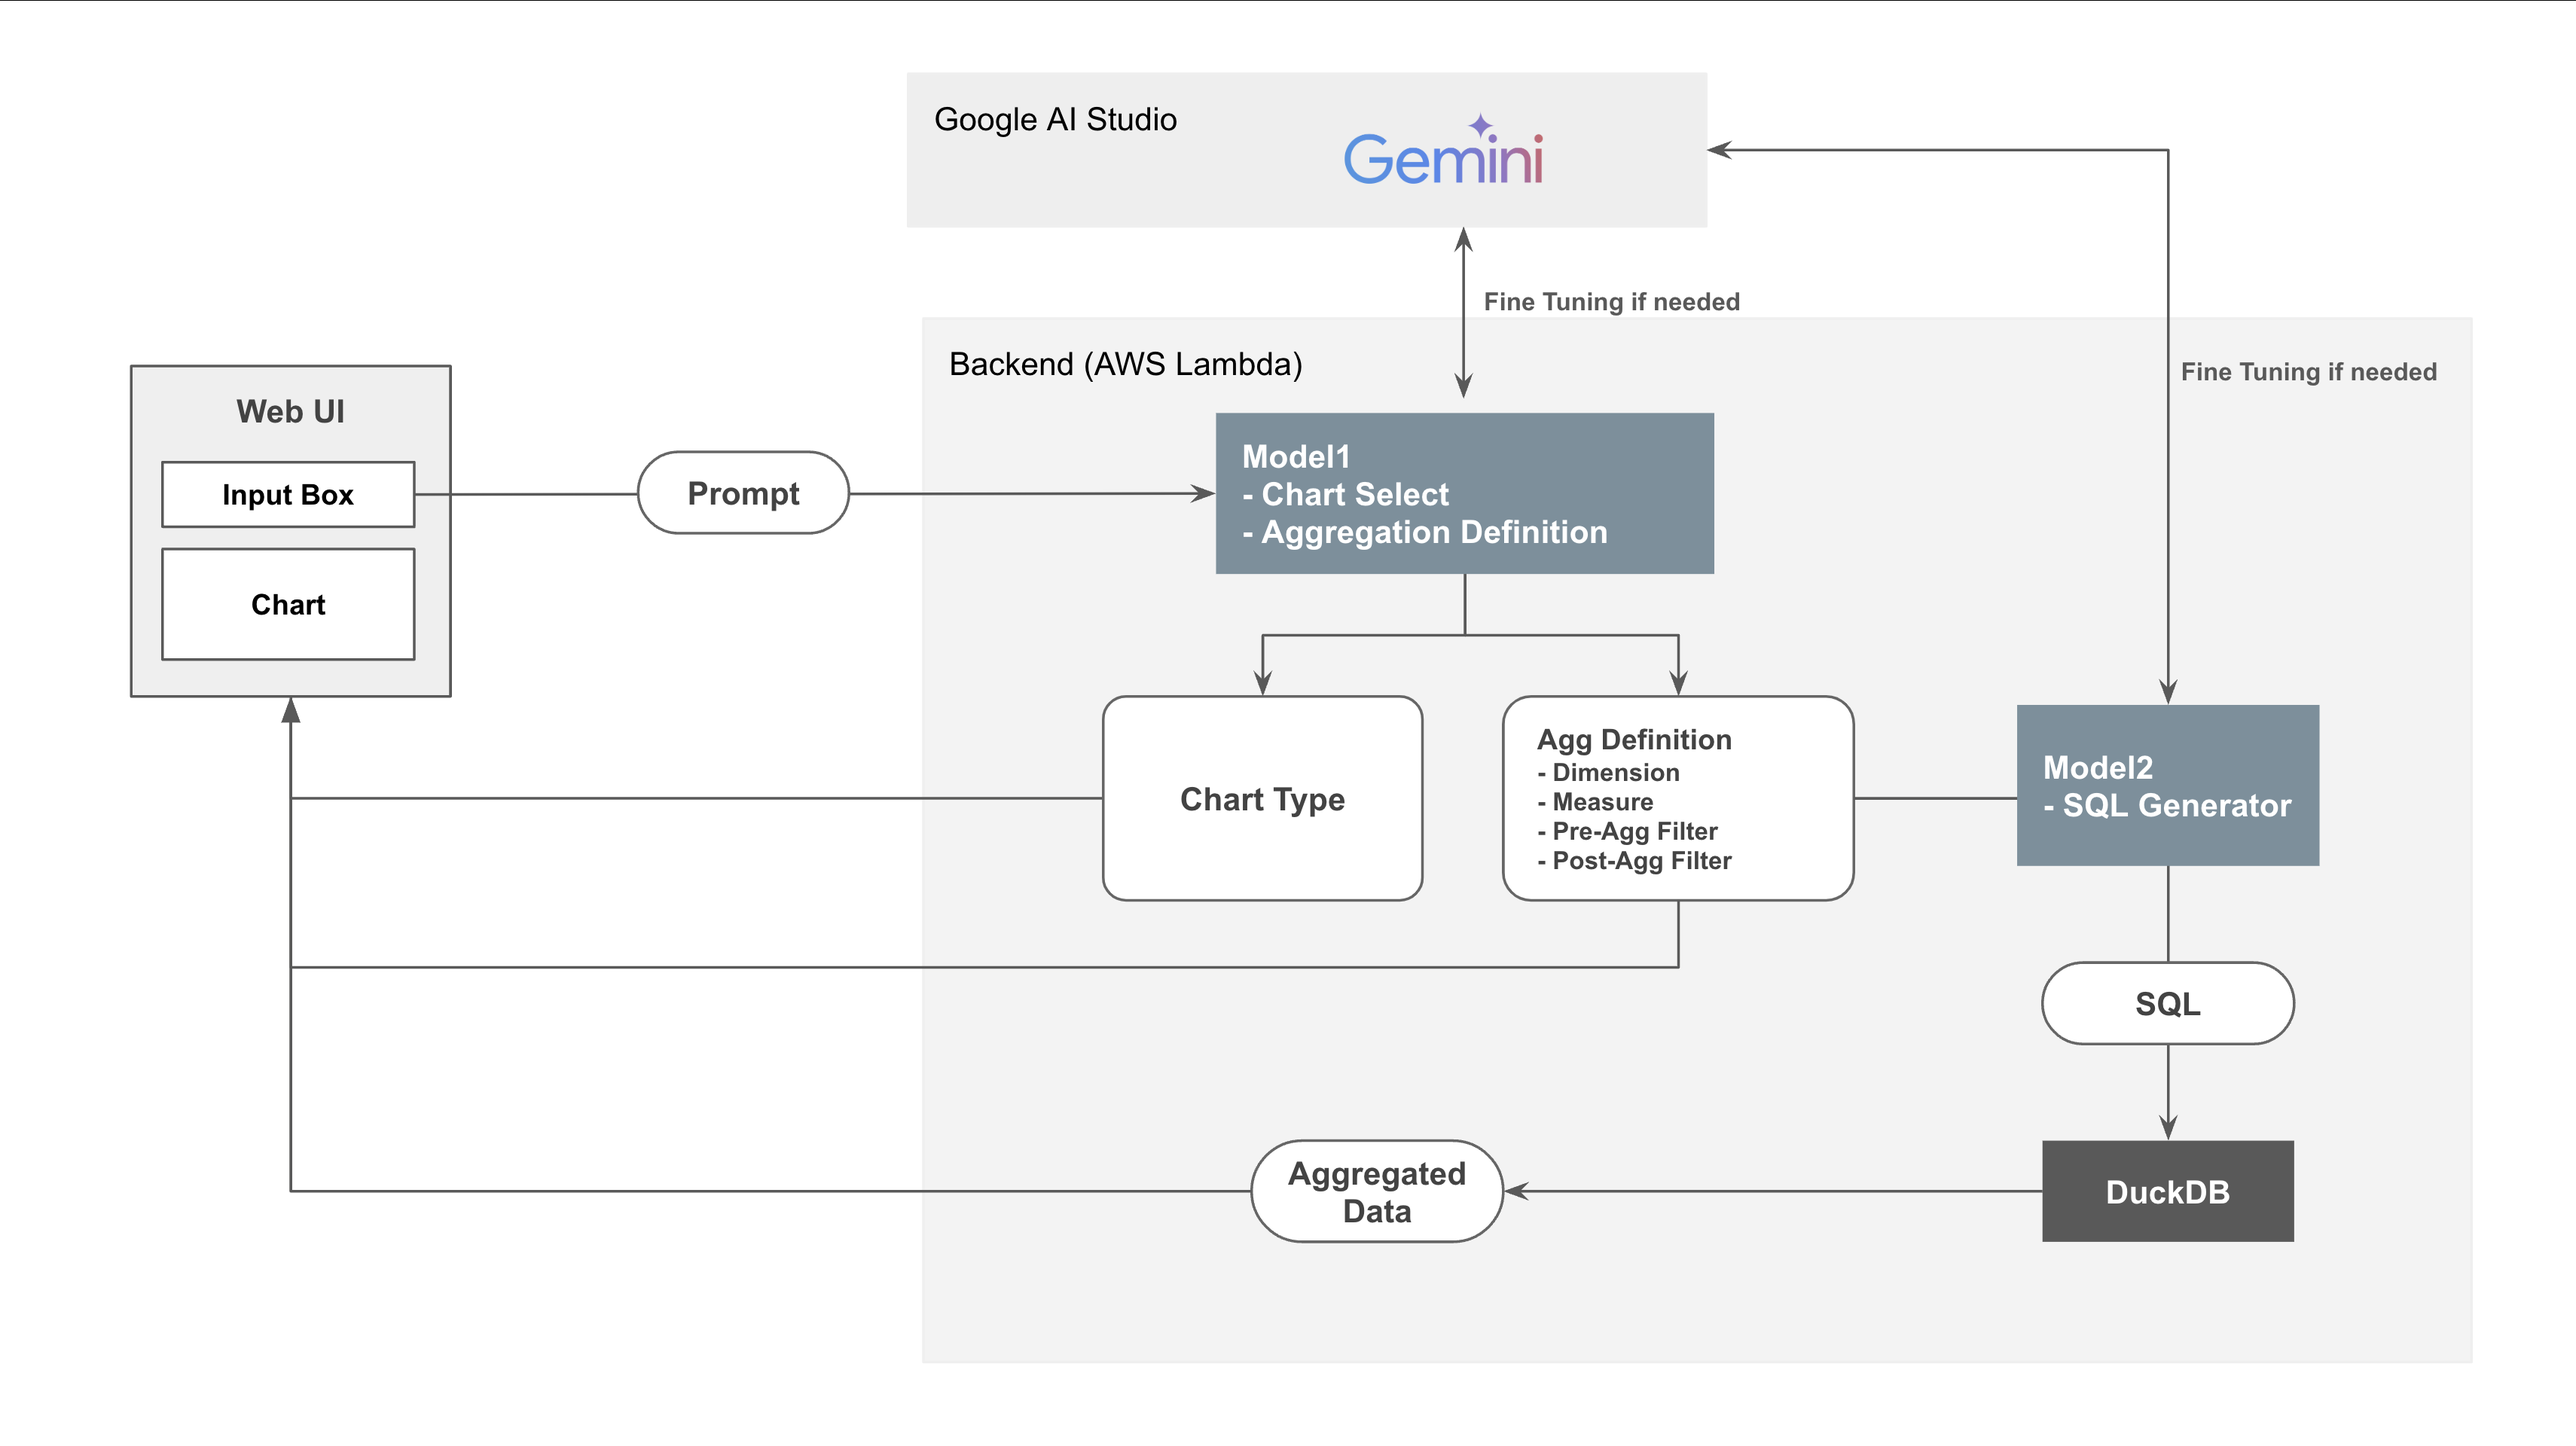
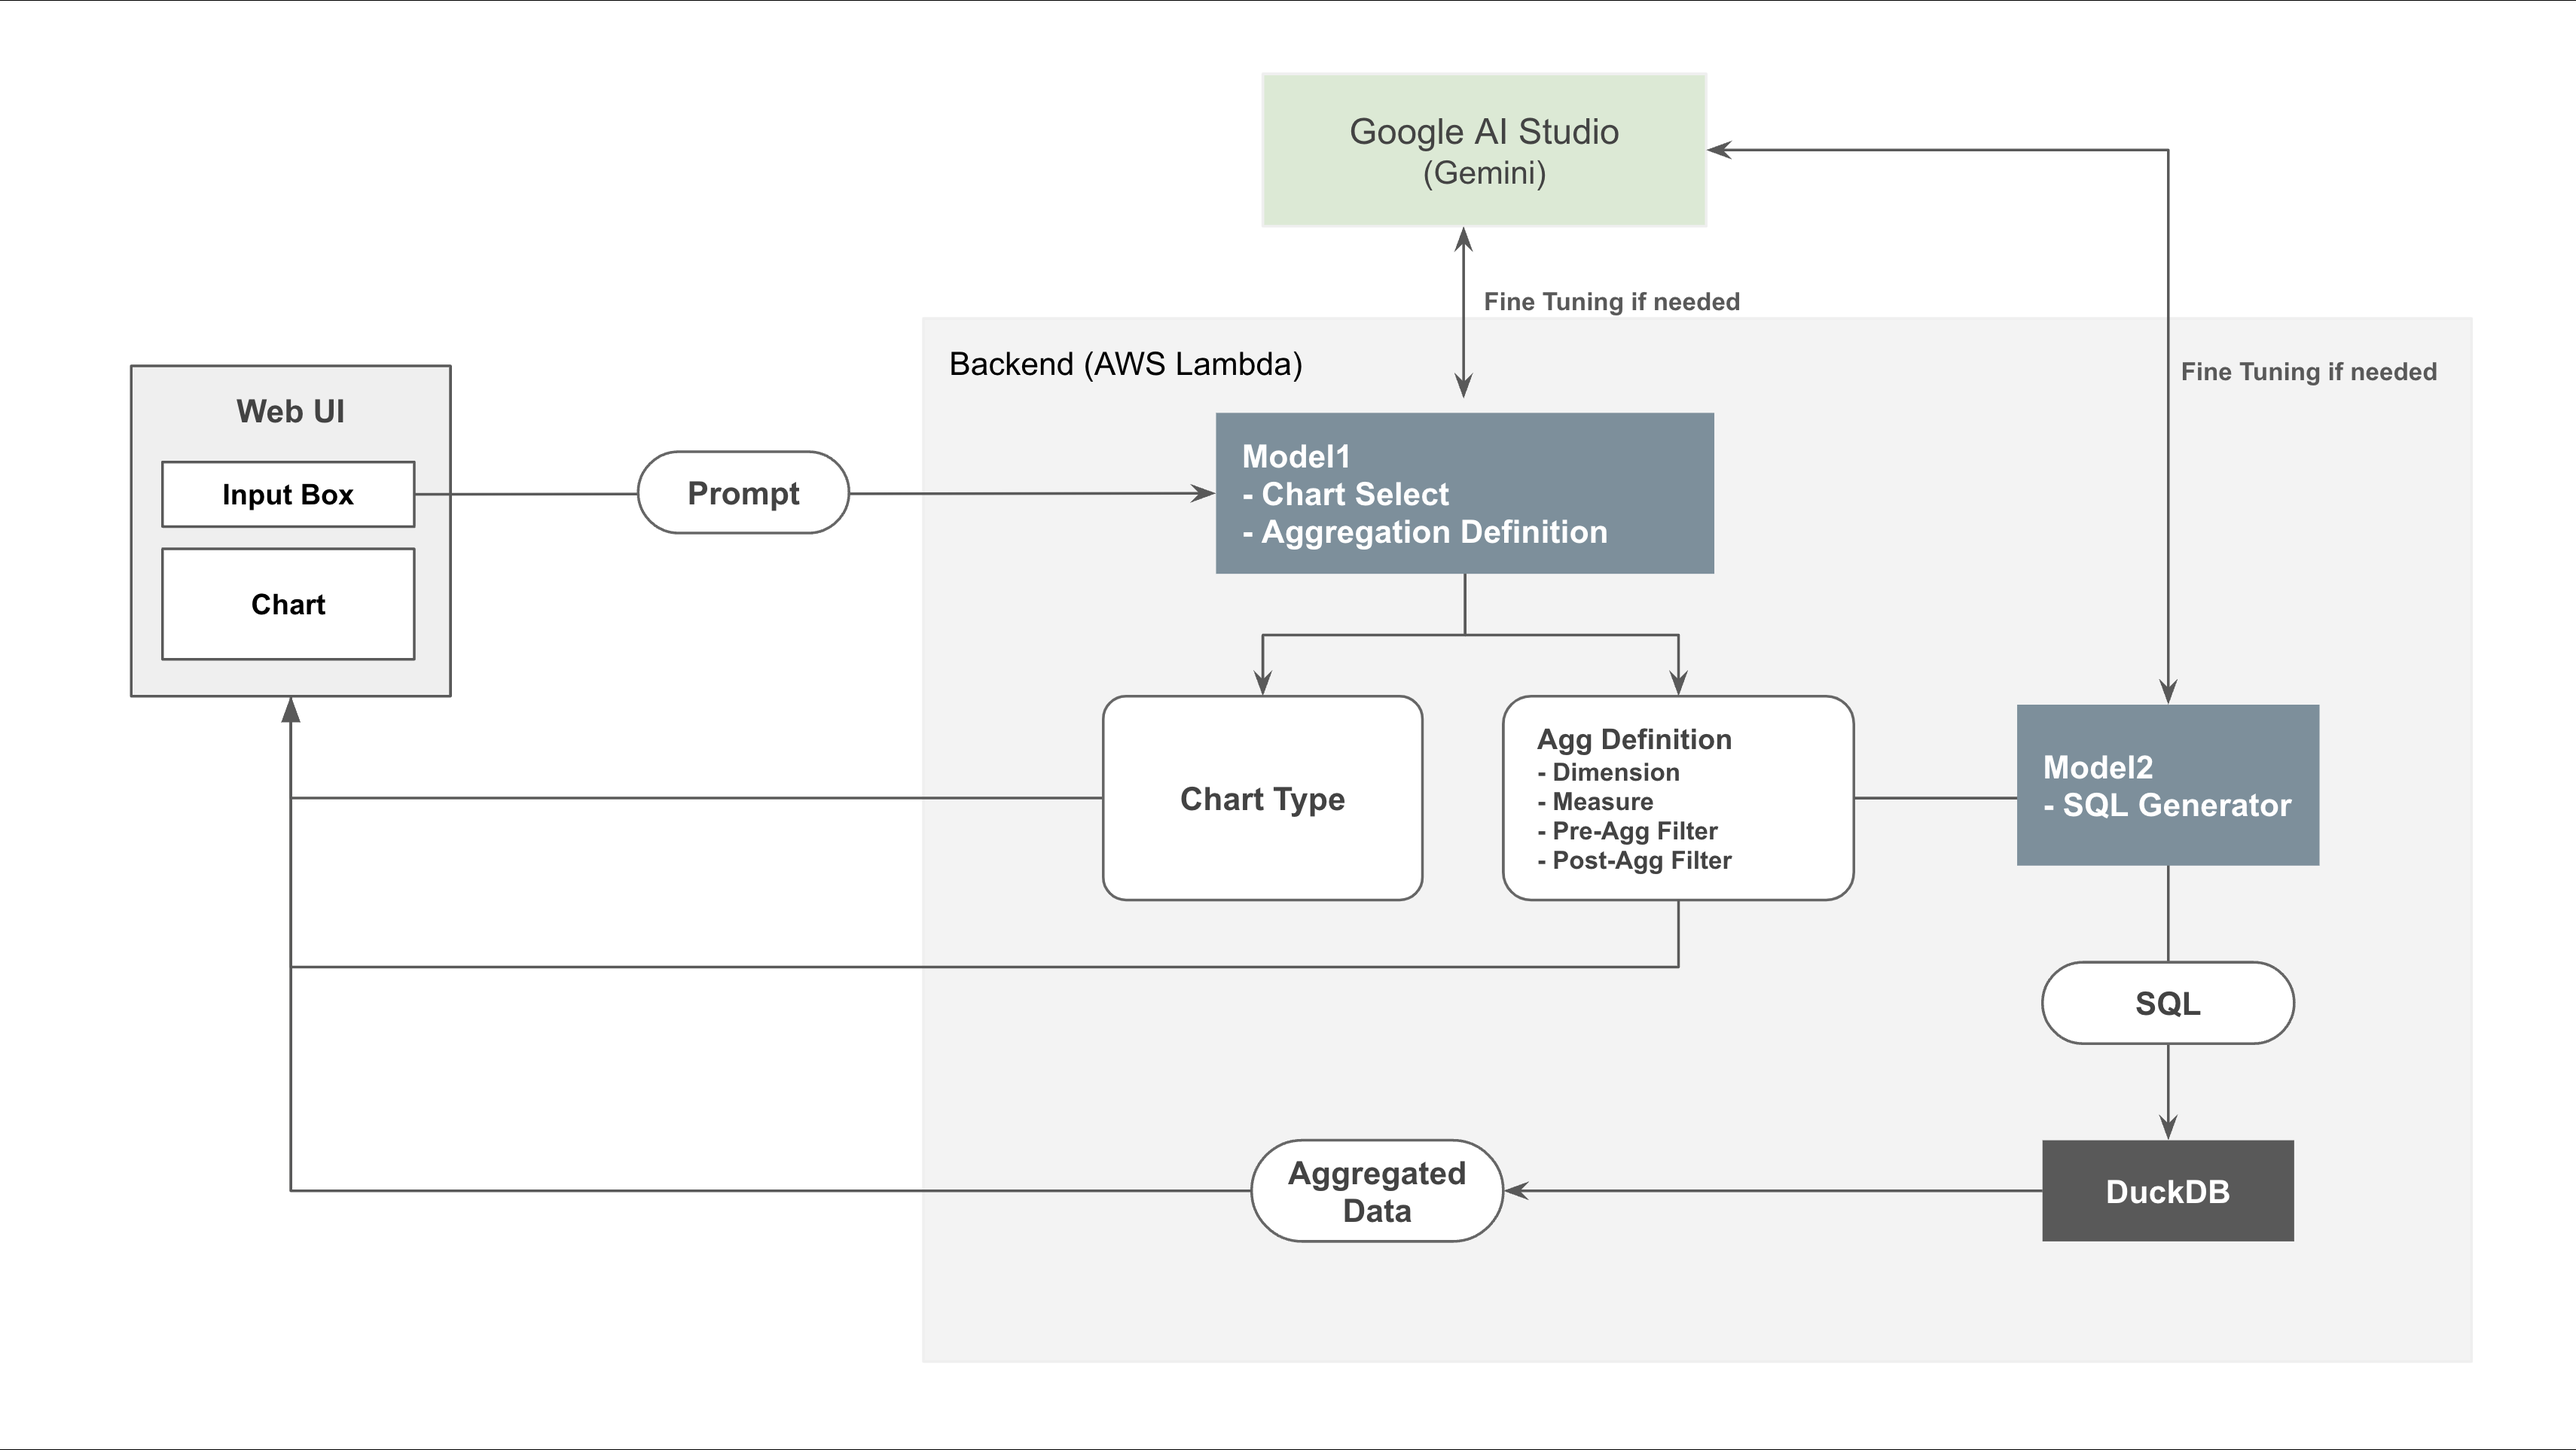
update readme

diff --git a/design_mockup/README.md b/design_mockup/README.md
@@ -1,5 +1,37 @@
-## Design Mockup
-![top](images/line_chart.png)
-![main](images/table.png)
-## Architecture
+# Design Mockup
+
+## Cover Page
+- Search Box allows users to select a dataset (e.g., "311 Request") and enter natural language queries.
+- Sample Questions provide examples of insights users can retrieve.
+
+![](images/cover_page.png)
+
+## Main Page
+The main page dynamically generates charts to visualize data based on the user's query, optimizing the representation for different types of analysis:
+- **Line Chart** for trend analysis (e.g., complaints over time).  
+- **Bar Chart** for comparisons (e.g., number of 311 requiests by complaint type).  
+- **Scatterplot** for illustrating relationships between variables.  
+
+On the right side of the screen:  
+- **Chart Switcher** enables users to easily switch between different types of visualizations.  
+- **Chart Definition** provides details on the aggregation conditions, including:  
+  - Applied **filters** (e.g., date range).  
+  - Selected **dimensions** (e.g., time and borough).  
+  - Chosen **metrics** (e.g., number of complaints).  
+
+![line chart](images/line_chart.png)
+
+![bar chart](images/bar_chart.png)
+
+![table](images/table.png)
+
+# Architecture
+This system consists of three main components:
+
+- Front-End – Captures user queries, processes inputs, and displays the final visualization.
+
+- Back-End – Interacts with Google AI Studio to determine the appropriate chart type, define data aggregation, and execute generated queries in DuckDB (an open-source in-memory database). It runs on AWS Lambda within free tiers.
+
+- Google AI Studio – Utilizes the latest Gemini model within free tiers to optimize chart selection and query processing.
+
 ![architecture](images/architecture.png)
